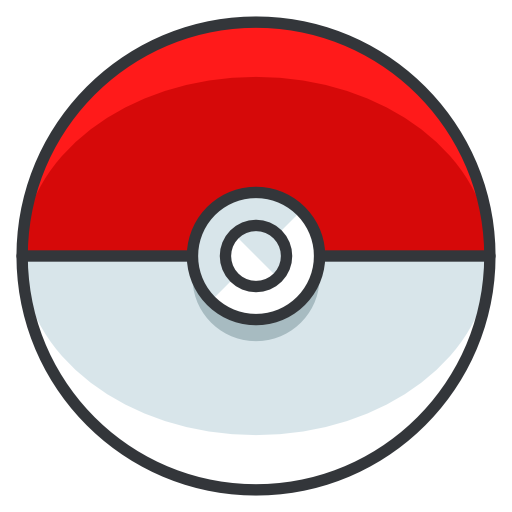
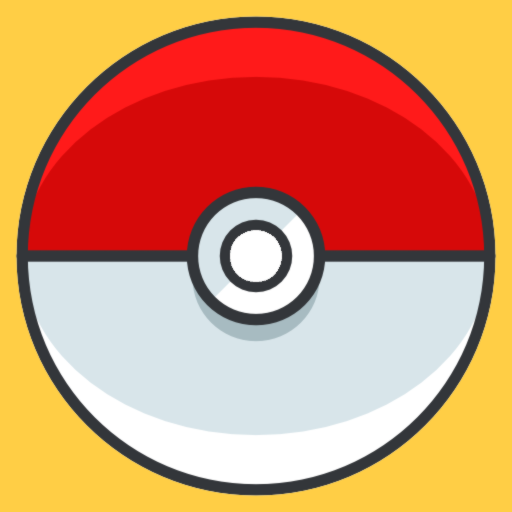
land page

diff --git a/client/src/components/landPage/LandPage.module.css b/client/src/components/landPage/LandPage.module.css
@@ -10,6 +10,18 @@
 }
 
 .pokeImg {
-    border-radius: 100%;
+    /* border-radius: 100%; */
+    background-color: white;
+    transition-duration: .5s;
+    transition-timing-function: cubic-bezier(.2,.42,1,1.11);
 }
 
+.pokeImg:hover{
+    background-color: #ff1a1a;
+    transition-duration: .5s;
+    transition-timing-function: cubic-bezier(.4,0,.2,1);
+}
+
+.pokeImg:focus{
+    outline: hidden;
+}

diff --git a/client/src/components/landPage/LandPage.jsx b/client/src/components/landPage/LandPage.jsx
@@ -2,7 +2,7 @@ import s from './LandPage.module.css';
 import { useDispatch } from 'react-redux';
 import { Link } from 'react-router-dom';
 import { getPokemons } from '../../redux/actions/pokemon';
-import pokeballImg from '../../img/pokeball.png'
+import pokeballImg from '../../img/pokeballreddot.png'
 
 
 export default function Pokemons(name) {

diff --git a/client/src/index.css b/client/src/index.css
@@ -6,7 +6,7 @@ body {
   font-family: 'Poppins', sans-serif;
   -webkit-font-smoothing: antialiased;
   -moz-osx-font-smoothing: grayscale;
-  background-color: #F7D08A;
+  background-color: #FFCE45;
 }
 
 code {
